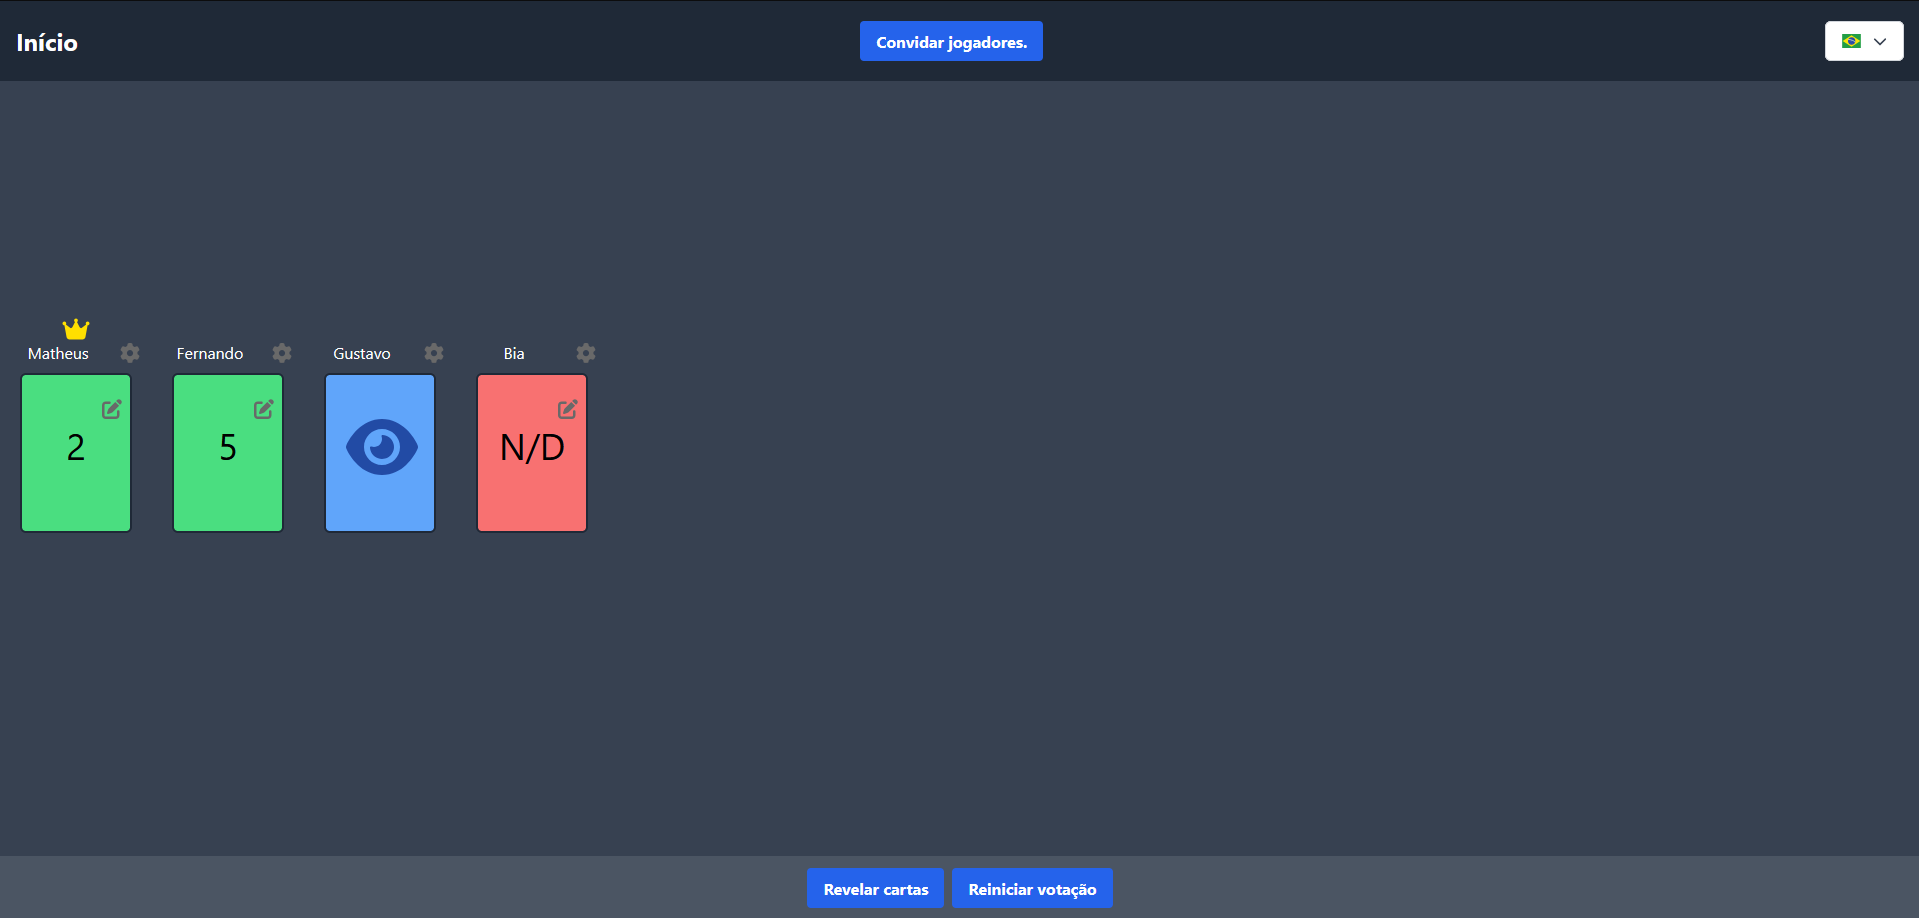
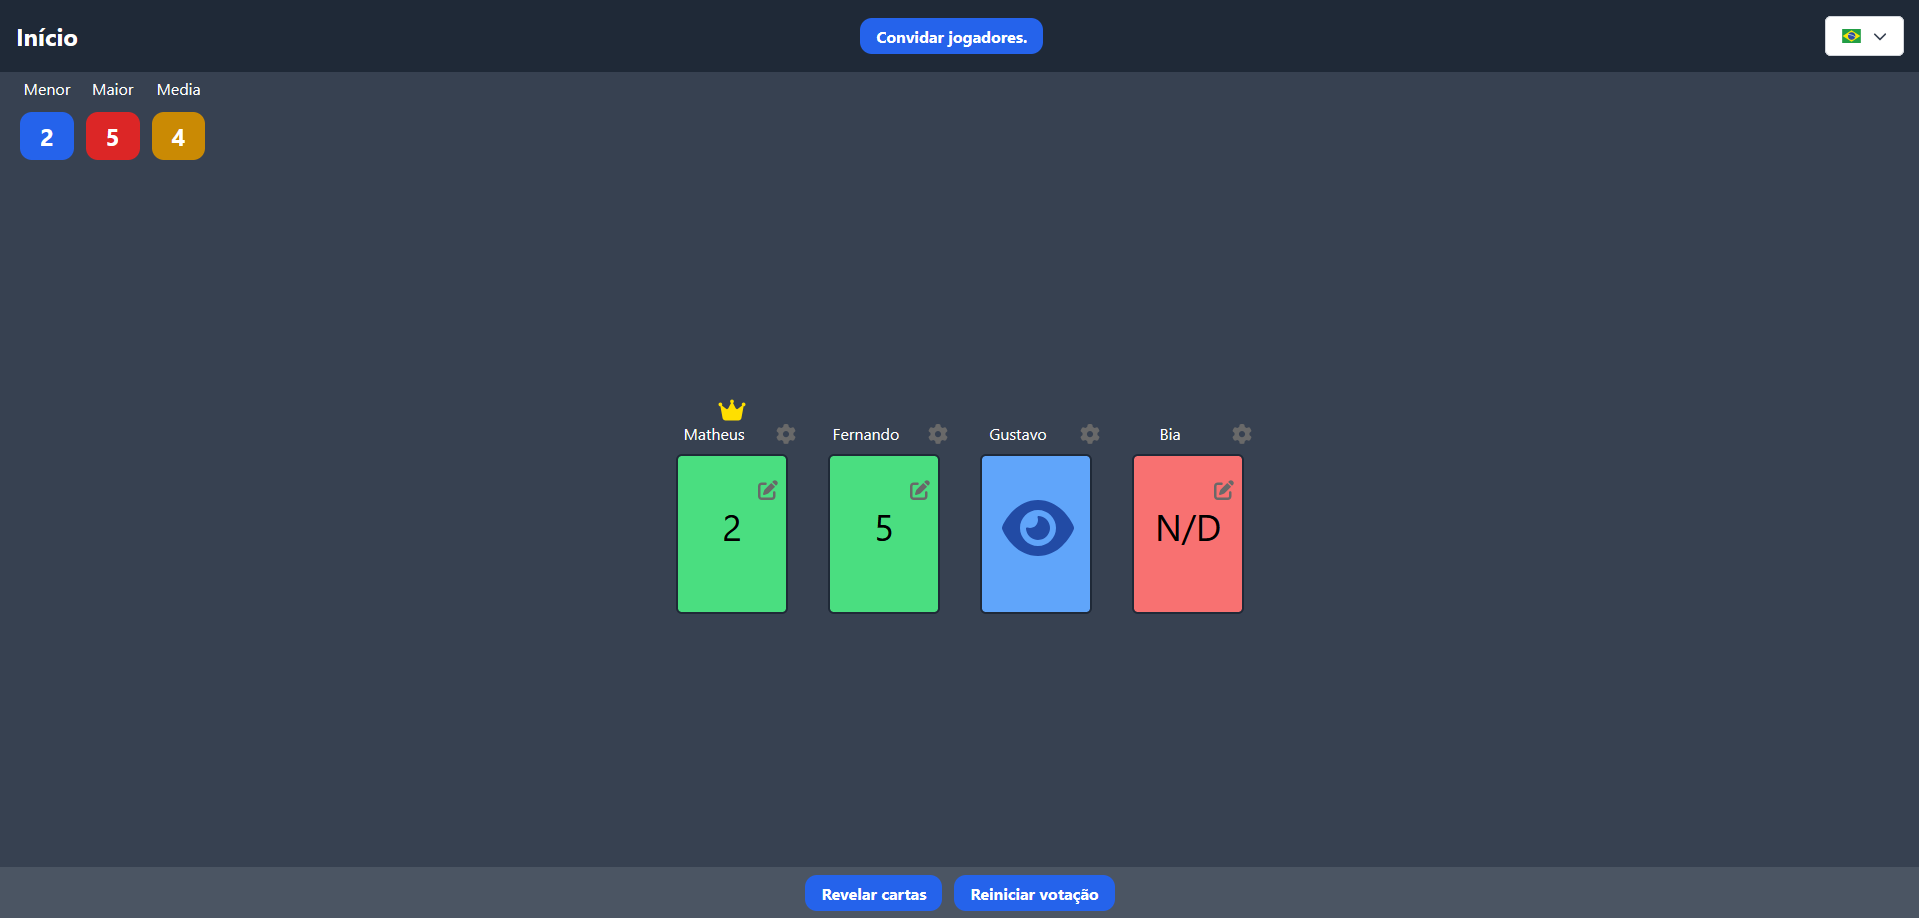
docs: :memo: update readme

diff --git a/README.pt.md b/README.pt.md
@@ -12,16 +12,17 @@ _Ler em outros idiomas: [Inglês](README.md)_
   - [Índice](#índice)
   - [Sobre](#sobre)
   - [Funcionalidades](#funcionalidades)
-  - [Instalação](#instalação)
   - [Uso](#uso)
     - [Criação de uma sala](#criação-de-uma-sala)
     - [Imagens](#imagens)
       - [Modal para convidar jogadores (QR Code e link)](#modal-para-convidar-jogadores-qr-code-e-link)
       - [Visual da sala](#visual-da-sala)
       - [Revelar votos](#revelar-votos)
+      - [Menor, Maior e Media](#menor-maior-e-media)
     - [Permissões do administrador](#permissões-do-administrador)
   - [Tecnologias Utilizadas](#tecnologias-utilizadas)
   - [Contribuição](#contribuição)
+  - [Instalação](#instalação)
 
 ## Sobre
 
@@ -34,6 +35,69 @@ O Scrum Poker é uma ferramenta de planejamento utilizada por equipes de desenvo
 - Administração de permissões para o moderador da sala
 - Suporte a múltiplos jogadores em tempo real (via WebSocket)
 - Suporte aos idiomas Portugues-BR e ingles (i18n)
+- Ao revelar as pontuações, são exibidos o Maior, o Menor e a Média dos valores
+
+## Uso
+
+### Criação de uma sala
+
+1. Entre em uma chamada de video com a sua equipe (opcional).
+2. Na página principal, Crie uma sala.
+3. Compartilhe o link da sala com os jogadores.
+4. Escolha uma carta e espere os outros jogadores votarem.
+5. Mostre as cartas e discuta com a sua equipe.
+6. Use a média como o ponto/peso da história.
+
+### Imagens
+
+#### Modal para convidar jogadores (QR Code e link)
+
+![Modal para convidar jogadores com QR Code e link](public/images/doc/room-invite-modal-pt-BR.png)
+
+#### Visual da sala
+
+![Imagem da sala](public/images/doc/room-view-pt-BR.png)
+
+- "João" ainda não votou (**cartão vermelho**)
+- "Pedro" votou (**cartão verde**)
+- "yuri" não pode votar, ele é um observador (**cartão azul** com - ícone de olho)
+- "Jose" mostra ações do **admin** no **ícone de engrenagem**
+
+#### Revelar votos
+
+![Imagem da sala com a pontuação nas cartas dos jogadores](public/images/doc/room-reveal-pt-BR.png)
+
+- "bia" não votou por isso ficou "N/D"
+- **O admin pode alterar a nota mas ficara um aviso no card**
+
+#### Menor, Maior e Media
+
+![Imagem da sala com a pontuação nas cartas dos jogadores e as cartas com o valor 2 estão elevadas](public/images/doc/room-reveal-score-pt-BR.png)
+
+- **Menor** mostra a menor pontuação.
+- **Maior** mostra a maior pontuação.
+- Ao clicar em **Menor** ou **Maior**, as cartas com o mesmo valor serão destacadas. Por exemplo, na imagem, ao clicar em **Menor = 2**, todas as cartas com valor 2 foram elevadas.
+
+### Permissões do administrador
+
+- Alterar a carta dos jogadores
+- Mudar o nome dos jogadores
+- Remover jogador da sala
+- Reiniciar votos
+- Revelar cartas
+- Impedir voto de algum jogador
+
+## Tecnologias Utilizadas
+
+- React: Biblioteca para criação de interfaces.
+- React Router: Gerenciamento de rotas no projeto.
+- Tailwind CSS: Framework CSS para estilização.
+- Socket IO: Comunicação em tempo real entre os jogadores.
+- i18n: Suporte para múltiplos idiomas.
+
+## Contribuição
+
+Contribuições são bem-vindas! Sinta-se à vontade para abrir issues ou enviar pull requests.
 
 ## Instalação
 
@@ -70,57 +134,3 @@ npm install
 
 npm run start:dev
 ```
-
-## Uso
-
-### Criação de uma sala
-
-1. Entre em uma chamada de video com a sua equipe (opcional).
-2. Na página principal, Crie uma sala.
-3. Compartilhe o link da sala com os jogadores.
-4. Escolha uma carta e espere os outros jogadores votarem.
-5. Mostre as cartas e discuta com a sua equipe.
-6. Use a média como o ponto/peso da história.
-
-### Imagens
-
-#### Modal para convidar jogadores (QR Code e link)
-
-![Modal para convidar jogadores com QR Code e link](public/images/doc/room-invite-modal-pt-BR.png)
-
-#### Visual da sala
-
-![Imagem da sala](public/images/doc/room-view-pt-BR.png)
-
-- "João" ainda não votou (**cartão vermelho**)
-- "Pedro" votou (**cartão verde**)
-- "yuri" não pode votar, ele é um observador (**cartão azul** com - ícone de olho)
-- "Jose" mostra ações do **admin** no **ícone de engrenagem**
-
-#### Revelar votos
-
-![Imagem da sala com a pontuação nas cartas dos jogadores](public/images/doc/room-reveal-pt-BR.png)
-
-- "bia" não votou por isso ficou "N/D"
-- **O admin pode alterar a nota mas ficara um aviso no card**
-
-### Permissões do administrador
-
-- Alterar a carta dos jogadores
-- Mudar o nome dos jogadores
-- Remover jogador da sala
-- Reiniciar votos
-- Revelar cartas
-- Impedir voto de algum jogador
-
-## Tecnologias Utilizadas
-
-- React: Biblioteca para criação de interfaces.
-- React Router: Gerenciamento de rotas no projeto.
-- Tailwind CSS: Framework CSS para estilização.
-- Socket IO: Comunicação em tempo real entre os jogadores.
-- i18n: Suporte para múltiplos idiomas.
-
-## Contribuição
-
-Contribuições são bem-vindas! Sinta-se à vontade para abrir issues ou enviar pull requests.

diff --git a/README.md b/README.md
@@ -12,16 +12,17 @@ _Read this in other languages: [Portugues-BR](README.pt.md)_
   - [Table of Contents](#table-of-contents)
   - [About](#about)
   - [Features](#features)
-  - [Installation](#installation)
   - [Usage](#usage)
     - [Creating a room](#creating-a-room)
     - [Imagens](#imagens)
       - [Modal to Invite Players (QR Code and Link)](#modal-to-invite-players-qr-code-and-link)
       - [Room View](#room-view)
       - [Reveal Votes](#reveal-votes)
+      - [Min, Max and Average](#min-max-and-average)
     - [Admin permissions](#admin-permissions)
   - [Technologies Used](#technologies-used)
   - [Contributing](#contributing)
+  - [Installation](#installation)
 
 ## About
 
@@ -38,6 +39,68 @@ Scrum Poker is a planning tool used by agile development teams to estimate the r
 - Multi-language support (i18n - Portuguese and English)
 - Modals for user interactions (changing name and choice)
 - Good layout to mobile
+- On reveal show min, max and average.
+
+## Usage
+
+### Creating a room
+
+1. Join a video call with your team or be in a room.
+2. On the main page, create a room.
+3. Share the room link with the players.
+4. Choose a card and wait for other players to vote.
+5. Reveal the cards and discuss with your team.
+6. Take the average and use it as the story point/weight.
+
+### Imagens
+
+#### Modal to Invite Players (QR Code and Link)
+
+![Modal to Invite Players with qr code and link](public/images/doc/room-invite-modal-en.png)
+
+#### Room View
+
+![Room view](public/images/doc/room-view-en.png)
+
+- "João" has not voted yet (**red card**)
+- "Pedro" has voted (**green card**)
+- "Yuri" cannot vote; he is an observer (**blue card** with an eye icon)
+- "Jose" shows **admin** actions on the **gear icon**
+
+#### Reveal Votes
+
+![Room view with players votes](public/images/doc/room-reveal-en.png)
+
+- "Bia" did not vote, so it shows "N/A"
+- **The admin can change the score, but a warning will remain on the card**
+
+#### Min, Max and Average
+
+![Room view with players votes and number 2 cards highlight](public/images/doc/room-reveal-score-en.png)
+
+- **Min** show the lowest score.
+- **Max** show the highest score.
+- Clicking on **Min** or **Max** will highlight all cards with the same value. For example, in the image, clicking **Min = 2** elevates all cards with the value 2
+
+### Admin permissions
+
+- Change players' cards
+- Change players' names
+- Remove players from the room
+- Reset votes
+- Disable voting for specific players
+
+## Technologies Used
+
+- React: A library for building user interfaces.
+- React Router: Route management for the project.
+- Tailwind CSS: A utility-first CSS framework for styling.
+- Socket IO: Real-time communication between players.
+- i18n: Multi-language support for the application.
+
+## Contributing
+
+Contributions are welcome! Feel free to open issues or submit pull requests.
 
 ## Installation
 
@@ -74,56 +137,3 @@ npm install
 
 npm run start:dev
 ```
-
-## Usage
-
-### Creating a room
-
-1. Join a video call with your team or be in a room.
-2. On the main page, create a room.
-3. Share the room link with the players.
-4. Choose a card and wait for other players to vote.
-5. Reveal the cards and discuss with your team.
-6. Take the average and use it as the story point/weight.
-
-### Imagens
-
-#### Modal to Invite Players (QR Code and Link)
-
-![Modal to Invite Players with qr code and link](public/images/doc/room-invite-modal-en.png)
-
-#### Room View
-
-![Room view](public/images/doc/room-view-en.png)
-
-- "João" has not voted yet (**red card**)
-- "Pedro" has voted (**green card**)
-- "Yuri" cannot vote; he is an observer (**blue card** with an eye icon)
-- "Jose" shows **admin** actions on the **gear icon**
-
-#### Reveal Votes
-
-![Room view with players votes](public/images/doc/room-reveal-en.png)
-
-- "Bia" did not vote, so it shows "N/A"
-- **The admin can change the score, but a warning will remain on the card**
-
-### Admin permissions
-
-- Change players' cards
-- Change players' names
-- Remove players from the room
-- Reset votes
-- Disable voting for specific players
-
-## Technologies Used
-
-- React: A library for building user interfaces.
-- React Router: Route management for the project.
-- Tailwind CSS: A utility-first CSS framework for styling.
-- Socket IO: Real-time communication between players.
-- i18n: Multi-language support for the application.
-
-## Contributing
-
-Contributions are welcome! Feel free to open issues or submit pull requests.
